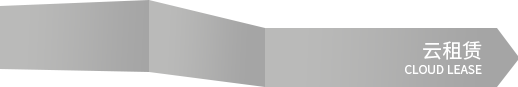
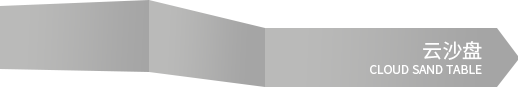
x

Changed region(s): [[0.7104, 0.7356, 0.9266, 0.8506], [0.834, 0.4598, 0.9266, 0.6897]]

diff --git a/index.html b/index.html
@@ -24,12 +24,13 @@
                 <li onclick='channel()' class='menu'>云渠道</li>
                 <li onclick='caseField()' class='menu'>云案场</li>
                 <li onclick='housRes()' class='menu'>云售楼</li>
+                <li onclick='cloudplate()' class='menu'>云沙盘</li>
                 <li onclick='intermediary()' class='menu'>云中介</li>
                 <li onclick='property()' class='menu'>云物业</li>
                 <li onclick='business()' class='menu'>云商业</li>
-                <li onclick='lease()' class='menu'>云租赁</li>
+                <!-- <li onclick='lease()' class='menu'>云租赁</li> -->
                 <li onclick='investment()' class='menu'>云招商</li>
-                <li onclick='cloudplate()' class='menu'>云沙盘</li>
+
                 <li class="menu">
                     <img class='phoneImg' src='./img/Phone@2x.png' />
                 </li>
@@ -43,7 +44,7 @@
         <div class='content-box pos-relative'>
             <img class='content-img' src='./img/mask@2x.png' />
             <div class='bar-img pos-absolute'>
-                <img class=' bar-img-a' src='./img/Cloudlease@2x.png' />
+                <img onclick='cloudplate()' class=' bar-img-a' src='./img/Cloudlease@2x.png' />
                 <img onclick='property()' class=' bar-img-b' src='./img/Cloudproperty@2x.png' />
                 <img onclick='investment()' class=' bar-img-c' src='./img/Cloudinvestment@2x.png' />
                 <img onclick='business()' class=' bar-img-d' src='./img/Cloudbusiness@2x.png' />
@@ -289,12 +290,12 @@
                             <span onclick='channel()' class='block'>云渠道</span>
                             <span onclick='caseField()' class='block'>云案场</span>
                             <span onclick='housRes()' class='block'>云售楼</span>
+                            <span onclick='cloudplate()' class='block'>云沙盘</span>
                             <span onclick='intermediary()' class='block'>云中介</span>
                             <span onclick='property()' class='block'>云物业</span>
                             <span onclick='business()' class='block'>云商业</span>
-                            <span onclick='lease()' class='block'>云租赁</span>
+                            <!-- <span onclick='lease()' class='block'>云租赁</span> -->
                             <span onclick='investment()' class='block'>云招商</span>
-                            <span onclick='cloudplate()' class='block'>云沙盘</span>
                         </div>
                     </span>
                     <span class='right'>

diff --git a/page/cloudPlate/index.html b/page/cloudPlate/index.html
@@ -24,12 +24,13 @@
                 <li onclick='channel()' class='menu'>云渠道</li>
                 <li onclick='caseField()' class='menu'>云案场</li>
                 <li onclick='housRes()' class='menu'>云售楼</li>
+                 <li onclick='cloudplate()' class='menu'>云沙盘</li>
                 <li onclick='intermediary()' class='menu'>云中介</li>
                 <li onclick='property()' class='menu'>云物业</li>
                 <li onclick='business()' class='menu'>云商业</li>
-                <li onclick='lease()' class='menu'>云租赁</li>
+                <!-- <li onclick='lease()' class='menu'>云租赁</li> -->
                 <li onclick='investment()' class='menu'>云招商</li>
-                <li onclick='cloudplate()' class='menu'>云沙盘</li>
+               
                 <li class="menu">
                     <img class='phoneImg' src='../../img/Phone@2x.png' />
                 </li>
@@ -145,10 +146,11 @@
                             <span onclick='channel()' class='block'>云渠道</span>
                             <span onclick='caseField()' class='block'>云案场</span>
                             <span onclick='housRes()' class='block'>云售楼</span>
+                            <span onclick='cloudplate()' class='block'>云沙盘</span>
                             <span onclick='intermediary()' class='block'>云中介</span>
                             <span onclick='property()' class='block'>云物业</span>
                             <span onclick='business()' class='block'>云商业</span>
-                            <span onclick='lease()' class='block'>云租赁</span>
+                            <!-- <span onclick='lease()' class='block'>云租赁</span> -->
                             <span onclick='investment()' class='block'>云招商</span>
 
                         </div>
@@ -271,6 +273,7 @@
             pagination: {
                 el: '.swiper-pagination',
             },
+            loop: true,
             navigation: {
                 nextEl: '.swiper-button-next',
                 prevEl: '.swiper-button-prev',

diff --git a/page/caseField/index.html b/page/caseField/index.html
@@ -25,12 +25,13 @@
                     <li onclick='channel()' class='menu'>云渠道</li>
                     <li onclick='caseField()' class='menu'>云案场</li>
                     <li onclick='housRes()' class='menu'>云售楼</li>
+                    <li onclick='cloudplate()' class='menu'>云沙盘</li>
                     <li onclick='intermediary()' class='menu'>云中介</li>
                     <li onclick='property()' class='menu'>云物业</li>
                     <li onclick='business()' class='menu'>云商业</li>
-                    <li onclick='lease()' class='menu'>云租赁</li>
+                    <!-- <li onclick='lease()' class='menu'>云租赁</li> -->
                     <li onclick='investment()' class='menu'>云招商</li>
-                    <li onclick='cloudplate()' class='menu'>云沙盘</li>
+                   
                     <li class="menu">
                         <img class='phoneImg' src='../../img/Phone@2x.png' />
                     </li>
@@ -221,12 +222,13 @@
                             <span onclick='channel()' class='block'>云渠道</span>
                             <span onclick='caseField()' class='block'>云案场</span>
                             <span onclick='housRes()' class='block'>云售楼</span>
+                            <span onclick='cloudplate()' class='block'>云沙盘</span>
                             <span onclick='intermediary()' class='block'>云中介</span>
                             <span onclick='property()' class='block'>云物业</span>
                             <span onclick='business()' class='block'>云商业</span>
-                            <span onclick='lease()' class='block'>云租赁</span>
+                            <!-- <span onclick='lease()' class='block'>云租赁</span> -->
                             <span onclick='investment()' class='block'>云招商</span>
-                            <span onclick='cloudplate()' class='block'>云沙盘</span>
+                          
                         </div>
                     </span>
                     <span class='right'>

diff --git a/page/channel/index.html b/page/channel/index.html
@@ -24,12 +24,13 @@
                 <li onclick='channel()' class='menu'>云渠道</li>
                 <li onclick='caseField()' class='menu'>云案场</li>
                 <li onclick='housRes()' class='menu'>云售楼</li>
+                <li onclick='cloudplate()' class='menu'>云沙盘</li>
                 <li onclick='intermediary()' class='menu'>云中介</li>
                 <li onclick='property()' class='menu'>云物业</li>
                 <li onclick='business()' class='menu'>云商业</li>
-                <li onclick='lease()' class='menu'>云租赁</li>
+                <!-- <li onclick='lease()' class='menu'>云租赁</li> -->
                 <li onclick='investment()' class='menu'>云招商</li>
-                <li onclick='cloudplate()' class='menu'>云沙盘</li>
+               
                 <li class="menu">
                     <img class='phoneImg' src='../../img/Phone@2x.png' />
                 </li>
@@ -272,12 +273,13 @@
                             <span onclick='channel()' class='block'>云渠道</span>
                             <span onclick='caseField()' class='block'>云案场</span>
                             <span onclick='housRes()' class='block'>云售楼</span>
+                            <span onclick='cloudplate()' class='block'>云沙盘</span>
                             <span onclick='intermediary()' class='block'>云中介</span>
                             <span onclick='property()' class='block'>云物业</span>
                             <span onclick='business()' class='block'>云商业</span>
-                            <span onclick='lease()' class='block'>云租赁</span>
+                            <!-- <span onclick='lease()' class='block'>云租赁</span> -->
                             <span onclick='investment()' class='block'>云招商</span>
-                            <span onclick='cloudplate()' class='block'>云沙盘</span>
+                            
                         </div>
                     </span>
                     <span class='right'>

diff --git a/page/housRes/index.html b/page/housRes/index.html
@@ -24,12 +24,13 @@
                 <li onclick='channel()' class='menu'>云渠道</li>
                 <li onclick='caseField()' class='menu'>云案场</li>
                 <li onclick='housRes()' class='menu'>云售楼</li>
+                <li onclick='cloudplate()' class='menu'>云沙盘</li>
                 <li onclick='intermediary()' class='menu'>云中介</li>
                 <li onclick='property()' class='menu'>云物业</li>
                 <li onclick='business()' class='menu'>云商业</li>
-                <li onclick='lease()' class='menu'>云租赁</li>
+                <!-- <li onclick='lease()' class='menu'>云租赁</li> -->
                 <li onclick='investment()' class='menu'>云招商</li>
-                <li onclick='cloudplate()' class='menu'>云沙盘</li>
+               
                 <li class="menu">
                     <img class='phoneImg' src='../../img/Phone@2x.png' />
                 </li>
@@ -288,12 +289,13 @@
                             <span onclick='channel()' class='block'>云渠道</span>
                             <span onclick='caseField()' class='block'>云案场</span>
                             <span onclick='housRes()' class='block'>云售楼</span>
+                            <span onclick='cloudplate()' class='block'>云沙盘</span>
                             <span onclick='intermediary()' class='block'>云中介</span>
                             <span onclick='property()' class='block'>云物业</span>
                             <span onclick='business()' class='block'>云商业</span>
-                            <span onclick='lease()' class='block'>云租赁</span>
+                            <!-- <span onclick='lease()' class='block'>云租赁</span> -->
                             <span onclick='investment()' class='block'>云招商</span>
-                            <span onclick='cloudplate()' class='block'>云沙盘</span>
+                           
                         </div>
                     </span>
                     <span class='right'>

diff --git a/page/intermediary/index.html b/page/intermediary/index.html
@@ -24,12 +24,13 @@
                 <li onclick='channel()' class='menu'>云渠道</li>
                 <li onclick='caseField()' class='menu'>云案场</li>
                 <li onclick='housRes()' class='menu'>云售楼</li>
+                <li onclick='cloudplate()' class='menu'>云沙盘</li>
                 <li onclick='intermediary()' class='menu'>云中介</li>
                 <li onclick='property()' class='menu'>云物业</li>
                 <li onclick='business()' class='menu'>云商业</li>
-                <li onclick='lease()' class='menu'>云租赁</li>
+                <!-- <li onclick='lease()' class='menu'>云租赁</li> -->
                 <li onclick='investment()' class='menu'>云招商</li>
-                <li onclick='cloudplate()' class='menu'>云沙盘</li>
+              
                 <li class="menu">
                     <img class='phoneImg' src='../../img/Phone@2x.png' />
                 </li>
@@ -252,12 +253,13 @@
                             <span onclick='channel()' class='block'>云渠道</span>
                             <span onclick='caseField()' class='block'>云案场</span>
                             <span onclick='housRes()' class='block'>云售楼</span>
+                            <span onclick='cloudplate()' class='block'>云沙盘</span>
                             <span onclick='intermediary()' class='block'>云中介</span>
                             <span onclick='property()' class='block'>云物业</span>
                             <span onclick='business()' class='block'>云商业</span>
-                            <span onclick='lease()' class='block'>云租赁</span>
+                            <!-- <span onclick='lease()' class='block'>云租赁</span> -->
                             <span onclick='investment()' class='block'>云招商</span>
-                            <span onclick='cloudplate()' class='block'>云沙盘</span>
+                          
                         </div>
                     </span>
                     <span class='right'>

diff --git a/page/property/index.html b/page/property/index.html
@@ -24,12 +24,13 @@
                 <li onclick='channel()' class='menu'>云渠道</li>
                 <li onclick='caseField()' class='menu'>云案场</li>
                 <li onclick='housRes()' class='menu'>云售楼</li>
+                <li onclick='cloudplate()' class='menu'>云沙盘</li>
                 <li onclick='intermediary()' class='menu'>云中介</li>
                 <li onclick='property()' class='menu'>云物业</li>
                 <li onclick='business()' class='menu'>云商业</li>
-                <li onclick='lease()' class='menu'>云租赁</li>
+                <!-- <li onclick='lease()' class='menu'>云租赁</li> -->
                 <li onclick='investment()' class='menu'>云招商</li>
-                <li onclick='cloudplate()' class='menu'>云沙盘</li>
+
                 <li class="menu">
                     <img class='phoneImg' src='../../img/Phone@2x.png' />
                 </li>
@@ -263,12 +264,13 @@
                             <span onclick='channel()' class='block'>云渠道</span>
                             <span onclick='caseField()' class='block'>云案场</span>
                             <span onclick='housRes()' class='block'>云售楼</span>
+                            <span onclick='cloudplate()' class='block'>云沙盘</span>
                             <span onclick='intermediary()' class='block'>云中介</span>
                             <span onclick='property()' class='block'>云物业</span>
                             <span onclick='business()' class='block'>云商业</span>
-                            <span onclick='lease()' class='block'>云租赁</span>
+                            <!-- <span onclick='lease()' class='block'>云租赁</span> -->
                             <span onclick='investment()' class='block'>云招商</span>
-                            <span onclick='cloudplate()' class='block'>云沙盘</span>
+
                         </div>
                     </span>
                     <span class='right'>

diff --git a/page/business/index.html b/page/business/index.html
@@ -24,12 +24,12 @@
                 <li onclick='channel()' class='menu'>云渠道</li>
                 <li onclick='caseField()' class='menu'>云案场</li>
                 <li onclick='housRes()' class='menu'>云售楼</li>
+                <li onclick='cloudplate()' class='menu'>云沙盘</li>
                 <li onclick='intermediary()' class='menu'>云中介</li>
                 <li onclick='property()' class='menu'>云物业</li>
                 <li onclick='business()' class='menu'>云商业</li>
-                <li onclick='lease()' class='menu'>云租赁</li>
+                <!-- <li onclick='lease()' class='menu'>云租赁</li> -->
                 <li onclick='investment()' class='menu'>云招商</li>
-                <li onclick='cloudplate()' class='menu'>云沙盘</li>
                 <li class="menu">
                     <img class='phoneImg' src='../../img/Phone@2x.png' />
                 </li>
@@ -262,12 +262,13 @@
                             <span onclick='channel()' class='block'>云渠道</span>
                             <span onclick='caseField()' class='block'>云案场</span>
                             <span onclick='housRes()' class='block'>云售楼</span>
+                            <span onclick='cloudplate()' class='block'>云沙盘</span>
                             <span onclick='intermediary()' class='block'>云中介</span>
                             <span onclick='property()' class='block'>云物业</span>
                             <span onclick='business()' class='block'>云商业</span>
-                            <span onclick='lease()' class='block'>云租赁</span>
+                            <!-- <span onclick='lease()' class='block'>云租赁</span> -->
                             <span onclick='investment()' class='block'>云招商</span>
-                            <span onclick='cloudplate()' class='block'>云沙盘</span>
+
                         </div>
                     </span>
                     <span class='right'>

diff --git a/page/investment/index.html b/page/investment/index.html
@@ -24,12 +24,13 @@
                 <li onclick='channel()' class='menu'>云渠道</li>
                 <li onclick='caseField()' class='menu'>云案场</li>
                 <li onclick='housRes()' class='menu'>云售楼</li>
+                <li onclick='cloudplate()' class='menu'>云沙盘</li>
                 <li onclick='intermediary()' class='menu'>云中介</li>
                 <li onclick='property()' class='menu'>云物业</li>
                 <li onclick='business()' class='menu'>云商业</li>
-                <li onclick='lease()' class='menu'>云租赁</li>
+                <!-- <li onclick='lease()' class='menu'>云租赁</li> -->
                 <li onclick='investment()' class='menu'>云招商</li>
-                <li onclick='cloudplate()' class='menu'>云沙盘</li>
+               
                 <li class="menu">
                     <img class='phoneImg' src='../../img/Phone@2x.png' />
                 </li>
@@ -224,10 +225,11 @@
                             <span onclick='channel()' class='block'>云渠道</span>
                             <span onclick='caseField()' class='block'>云案场</span>
                             <span onclick='housRes()' class='block'>云售楼</span>
+                            <span onclick='cloudplate()' class='block'>云沙盘</span>
                             <span onclick='intermediary()' class='block'>云中介</span>
                             <span onclick='property()' class='block'>云物业</span>
                             <span onclick='business()' class='block'>云商业</span>
-                            <span onclick='lease()' class='block'>云租赁</span>
+                            <!-- <span onclick='lease()' class='block'>云租赁</span> -->
                             <span onclick='investment()' class='block'>云招商</span>
                             
                         </div>
